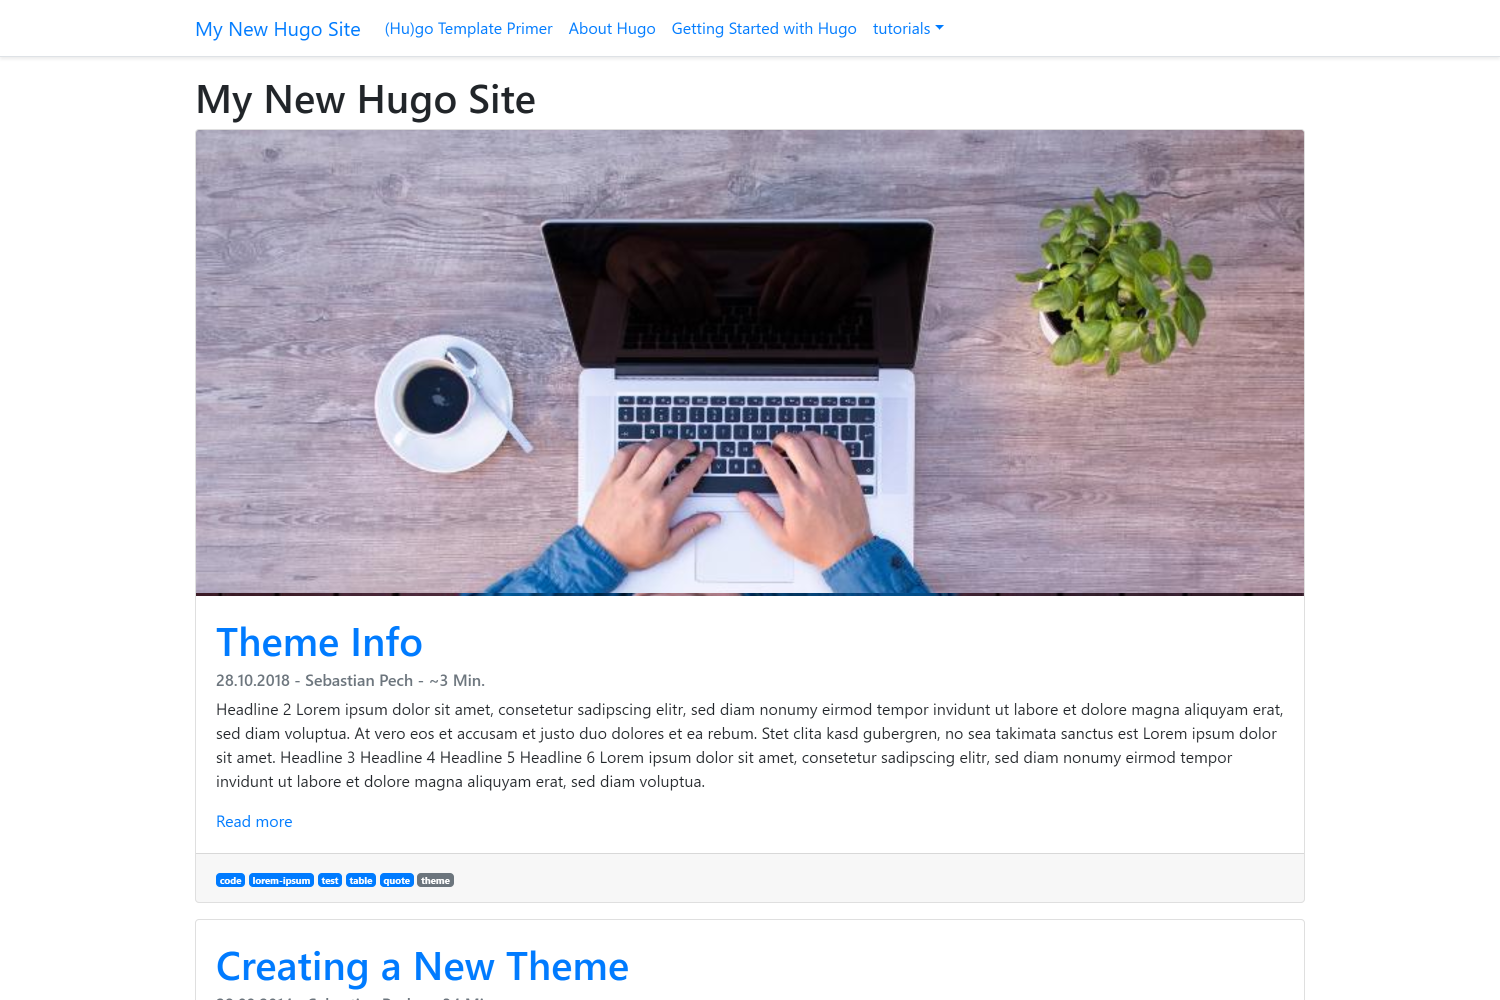
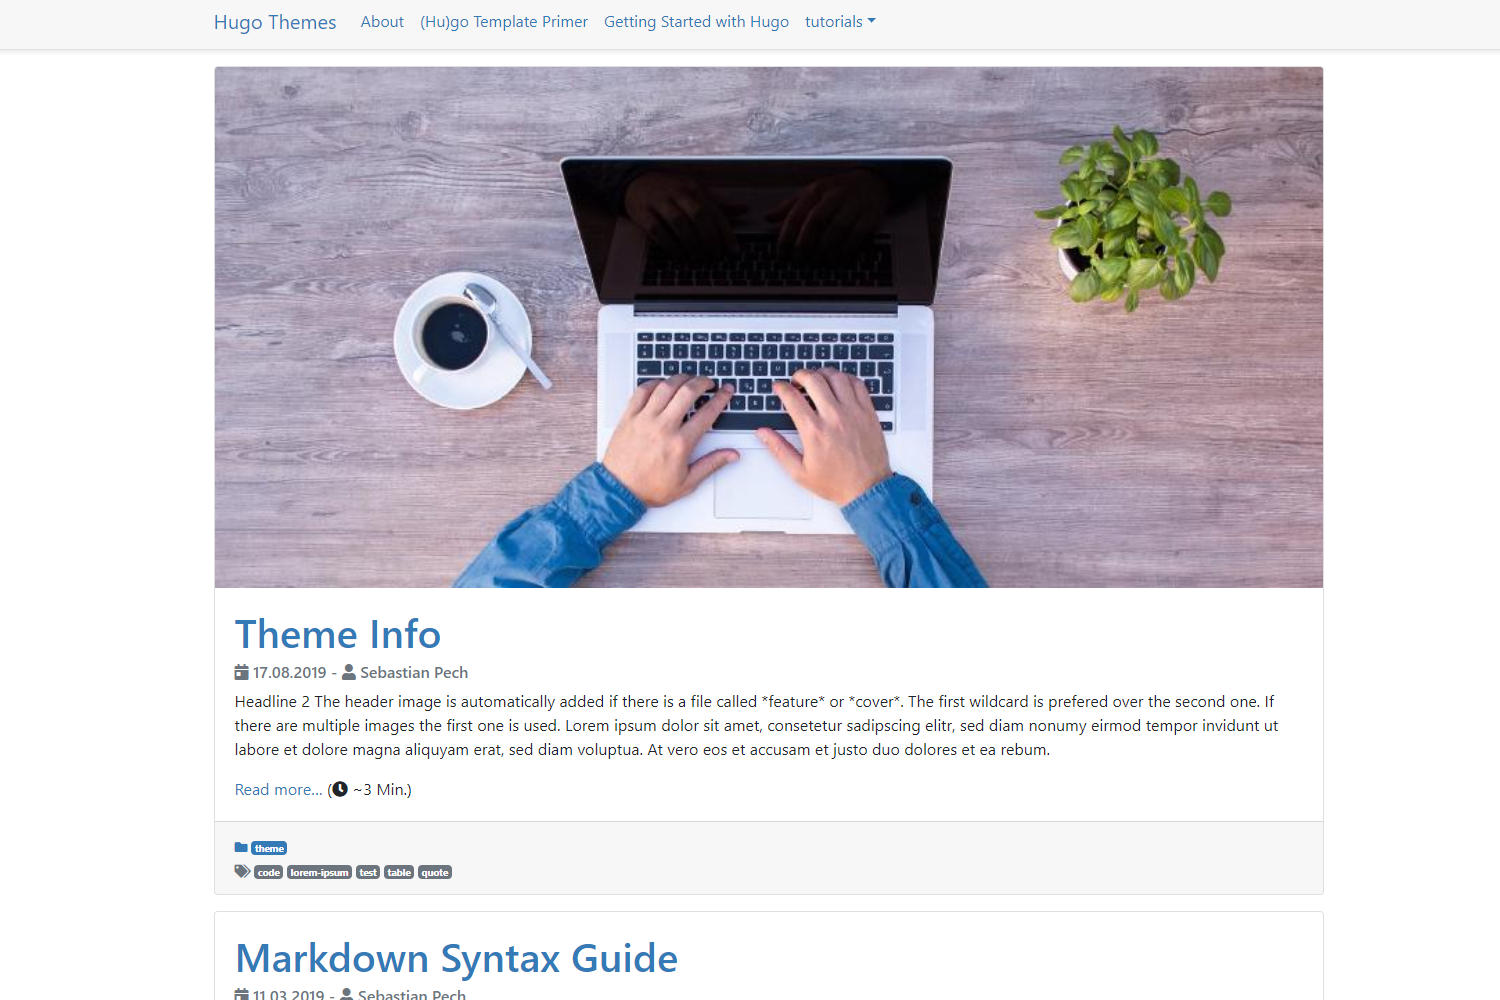
Added blue theme and screenshots

Changed region(s): [[0.1227, 0.0, 0.8893, 0.899], [0.1227, 0.93, 0.46, 1.0]]

diff --git a/layouts/partials/content.html b/layouts/partials/content.html
@@ -14,9 +14,9 @@
     <div class="card-body">
         <h1 class="card-title"><a href="{{ .RelPermalink }}">{{ .Title | markdownify }}</a></h1>
         <h6 class="card-subtitle mb-2 text-muted">
-            {{ .PublishDate.Format $customDateFormat }}{{ if gt .Lastmod .PublishDate }}, last updated {{ .Lastmod.Format $customDateFormat }}{{ end }} - 
-            {{ range .Site.Author }}{{ . }}{{ end }} -
-            Reading time ~{{ if le .ReadingTime 1 }}1 Minute{{ else }}{{ .ReadingTime }} Minutes{{ end }}
+            <i class="fas fa-calendar-day"></i> {{ .PublishDate.Format $customDateFormat }}{{ if gt .Lastmod .PublishDate }}, last updated {{ .Lastmod.Format $customDateFormat }}{{ end }} - 
+            <i class="fas fa-user"></i> {{ range .Site.Author }}{{ . }}{{ end }} -
+            <i class="fas fa-clock"></i> ~{{ if le .ReadingTime 1 }}1 Minute{{ else }}{{ .ReadingTime }} Minutes{{ end }}
         </h6>
 
         <p class="card-text">{{ .Content }}</p>
@@ -30,6 +30,7 @@
                     {{ range .Params.categories }}
                         <a href="{{ "/categories/" | relURL }}#{{ . | urlize }}" class="badge badge-primary"><span>{{ . | urlize }}</span></a>
                     {{ end }}
+                    <br />
                 {{ end }}
                 {{ if gt .Params.tags 0 }}
                     <i class="fas fa-tags text-secondary"></i> 

diff --git a/layouts/partials/content_summary.html b/layouts/partials/content_summary.html
@@ -19,13 +19,13 @@
     <div class="card-body">
         <h1 class="card-title"><a href="{{ .RelPermalink }}">{{ .Title | markdownify }}</a></h1>
         <h6 class="card-subtitle mb-2 text-muted">
-            {{ .PublishDate.Format $customDateFormat }}{{ if gt .Lastmod .PublishDate }}, last updated {{ .Lastmod.Format $customDateFormat }}{{ end }} - 
-            {{ range .Site.Author }}{{ . }}{{ end }}
+            <i class="fas fa-calendar-day"></i> {{ .PublishDate.Format $customDateFormat }}{{ if gt .Lastmod .PublishDate }}, last updated {{ .Lastmod.Format $customDateFormat }}{{ end }} - 
+            <i class="fas fa-user"></i> {{ range .Site.Author }}{{ . }}{{ end }}
         </h6>
         
         {{ if eq .Site.Params.showPostSummary true }}
             <p class="card-text">{{ .Summary }}</p>
-            <a href="{{ .RelPermalink }}" class="card-link">Read more&hellip;</a> (~{{ .ReadingTime }} Min.)
+            <a href="{{ .RelPermalink }}" class="card-link">Read more&hellip;</a> (<i class="fas fa-clock"></i>  ~{{ .ReadingTime }} Min.)
         {{ else }}
             <p class="card-text">{{ .Content }}</p>
         {{ end }}

diff --git a/layouts/partials/head.html b/layouts/partials/head.html
@@ -14,6 +14,13 @@
 
 {{ $cssbootstrap := resources.Get "/css/bootstrap.min.css" }}
 {{ $cssfontawesome := resources.Get "/css/fontawesome-free-5.10.1-web-all.min.css" }}
-{{ $cssmain := resources.Get "/css/main.css" }}
-{{ $allcss := slice $cssbootstrap $cssfontawesome $cssmain | resources.Concat "/css/vendor.css" | minify | fingerprint }}
-<link rel="stylesheet" href="{{ $allcss.RelPermalink }}" integrity="{{ $allcss.Data.Integrity }}">
+
+{{ if .Site.Params.themeColor }}
+    {{ $cssmain := resources.Get (printf "/css/main-%s.css" .Site.Params.themeColor) }}
+    {{ $allcss := slice $cssbootstrap $cssfontawesome $cssmain | resources.Concat "/css/vendor.css" | minify | fingerprint }}
+    <link rel="stylesheet" href="{{ $allcss.RelPermalink }}" integrity="{{ $allcss.Data.Integrity }}">
+{{ else }}
+    {{ $cssmain := resources.Get "/css/main.css" }}
+    {{ $allcss := slice $cssbootstrap $cssfontawesome $cssmain | resources.Concat "/css/vendor.css" | minify | fingerprint }}
+    <link rel="stylesheet" href="{{ $allcss.RelPermalink }}" integrity="{{ $allcss.Data.Integrity }}">
+{{ end }}

diff --git a/assets/css/main-blue.css b/assets/css/main-blue.css
@@ -1,0 +1,17 @@
+footer {
+    padding: 2.5rem 0;
+    color: #6c757d;
+    background-color: rgba(0,0,0,.03);
+    border-top: 0.05rem solid #e5e5e5;
+}
+
+a { color: #337ab7; }
+a:link { color: #337ab7; }
+a:visited { color: #337ab7; }
+a:hover { color: #337ab7; }
+a:active { color: #337ab7; }
+.text-primary { color: #337ab7!important; }
+.text-muted { color: #6c757d!important; }
+.badge-primary { background-color: #337ab7; color: #ffffff!important; }
+.badge-secondary { background-color: #6c757d; color: #ffffff!important; }
+.bg-white { background-color: rgba(0,0,0,.03)!important; }

diff --git a/layouts/index.html b/layouts/index.html
@@ -1,7 +1,7 @@
 {{ define "main" }}
 
 <div class="container mt-3 mb-3">
-    <h1><a href="{{ .RelPermalink }}">{{ .Site.Title }}</a></h1>
+    <!--<h1><a href="{{ .RelPermalink }}">{{ .Site.Title }}</a></h1>-->
 
     {{ if .Site.Params.startPageColumns }}
         <div class="card-columns">

diff --git a/assets/css/main-dark.css b/assets/css/main-dark.css
@@ -1,0 +1,6 @@
+footer {
+    padding: 2.5rem 0;
+    color: #999;
+    background-color: #f9f9f9;
+    border-top: 0.05rem solid #e5e5e5;
+}

diff --git a/assets/css/main-light.css b/assets/css/main-light.css
@@ -1,0 +1,6 @@
+footer {
+    padding: 2.5rem 0;
+    color: #999;
+    background-color: #f9f9f9;
+    border-top: 0.05rem solid #e5e5e5;
+}

diff --git a/README.md b/README.md
@@ -1,6 +1,6 @@
 # Bootstrap-BP hugo theme
 
-[Bootstrap v4](https://getbootstrap.com/) based Hugo theme which provides out of the box best practices like performance and SEO readiness. Featured images will be resized automatically. This is based on the [Hugo docs](https://gohugo.io/templates/homepage/), [hugo-best-practices](https://github.com/spech66/hugo-best-practices), [Front-End Checklist](https://github.com/thedaviddias/Front-End-Checklist) and the [Front-End Performance Checklist](https://github.com/thedaviddias/Front-End-Performance-Checklist).
+[Bootstrap v4](https://getbootstrap.com/) based Hugo theme which provides out of the box best practices like performance and SEO readiness. Featured images will be resized automatically. This is based on the [Hugo docs](https://gohugo.io/templates/homepage/), [hugo-best-practices](https://github.com/spech66/hugo-best-practices), [Front-End Checklist](https://github.com/thedaviddias/Front-End-Checklist) and the [Front-End Performance Checklist](https://github.com/thedaviddias/Front-End-Performance-Checklist). Contains four different color themes.
 
 ## Install the theme
 
@@ -22,6 +22,7 @@ Most settings should be done with hugo specific variables. There are only a few 
 * `customDateFormat` to override the date format.
 * `showListsGrouped` to add headers for every year.
 * `showPostSummary` only show a summary on index and lists.
+* `colorTheme` set to dark, light, blue (do not set for bootstrap default)
 
 ![startPageColumns = true](https://raw.githubusercontent.com/spech66/bootstrap-bp-hugo-theme/master/images/tn.png)
 
@@ -47,6 +48,8 @@ Provide one author to enable the Schema.org support.
 ## Images, Open Graph and Twitter Cards
 
 This theme uses Hugos `feature/cover` name method to set the optimized feature image. The image named `*feature*` or `*cover*` is used for the posts featured image and get resized. This will also be in the Twitter Cards and Open Graph block.
+
+The header image is automatically added if there is a file called `*feature*` or `*cover*`. The first wildcard is prefered over the second one. If there are multiple images the first one is used.
 
 ```yaml
 # Site Config toml
